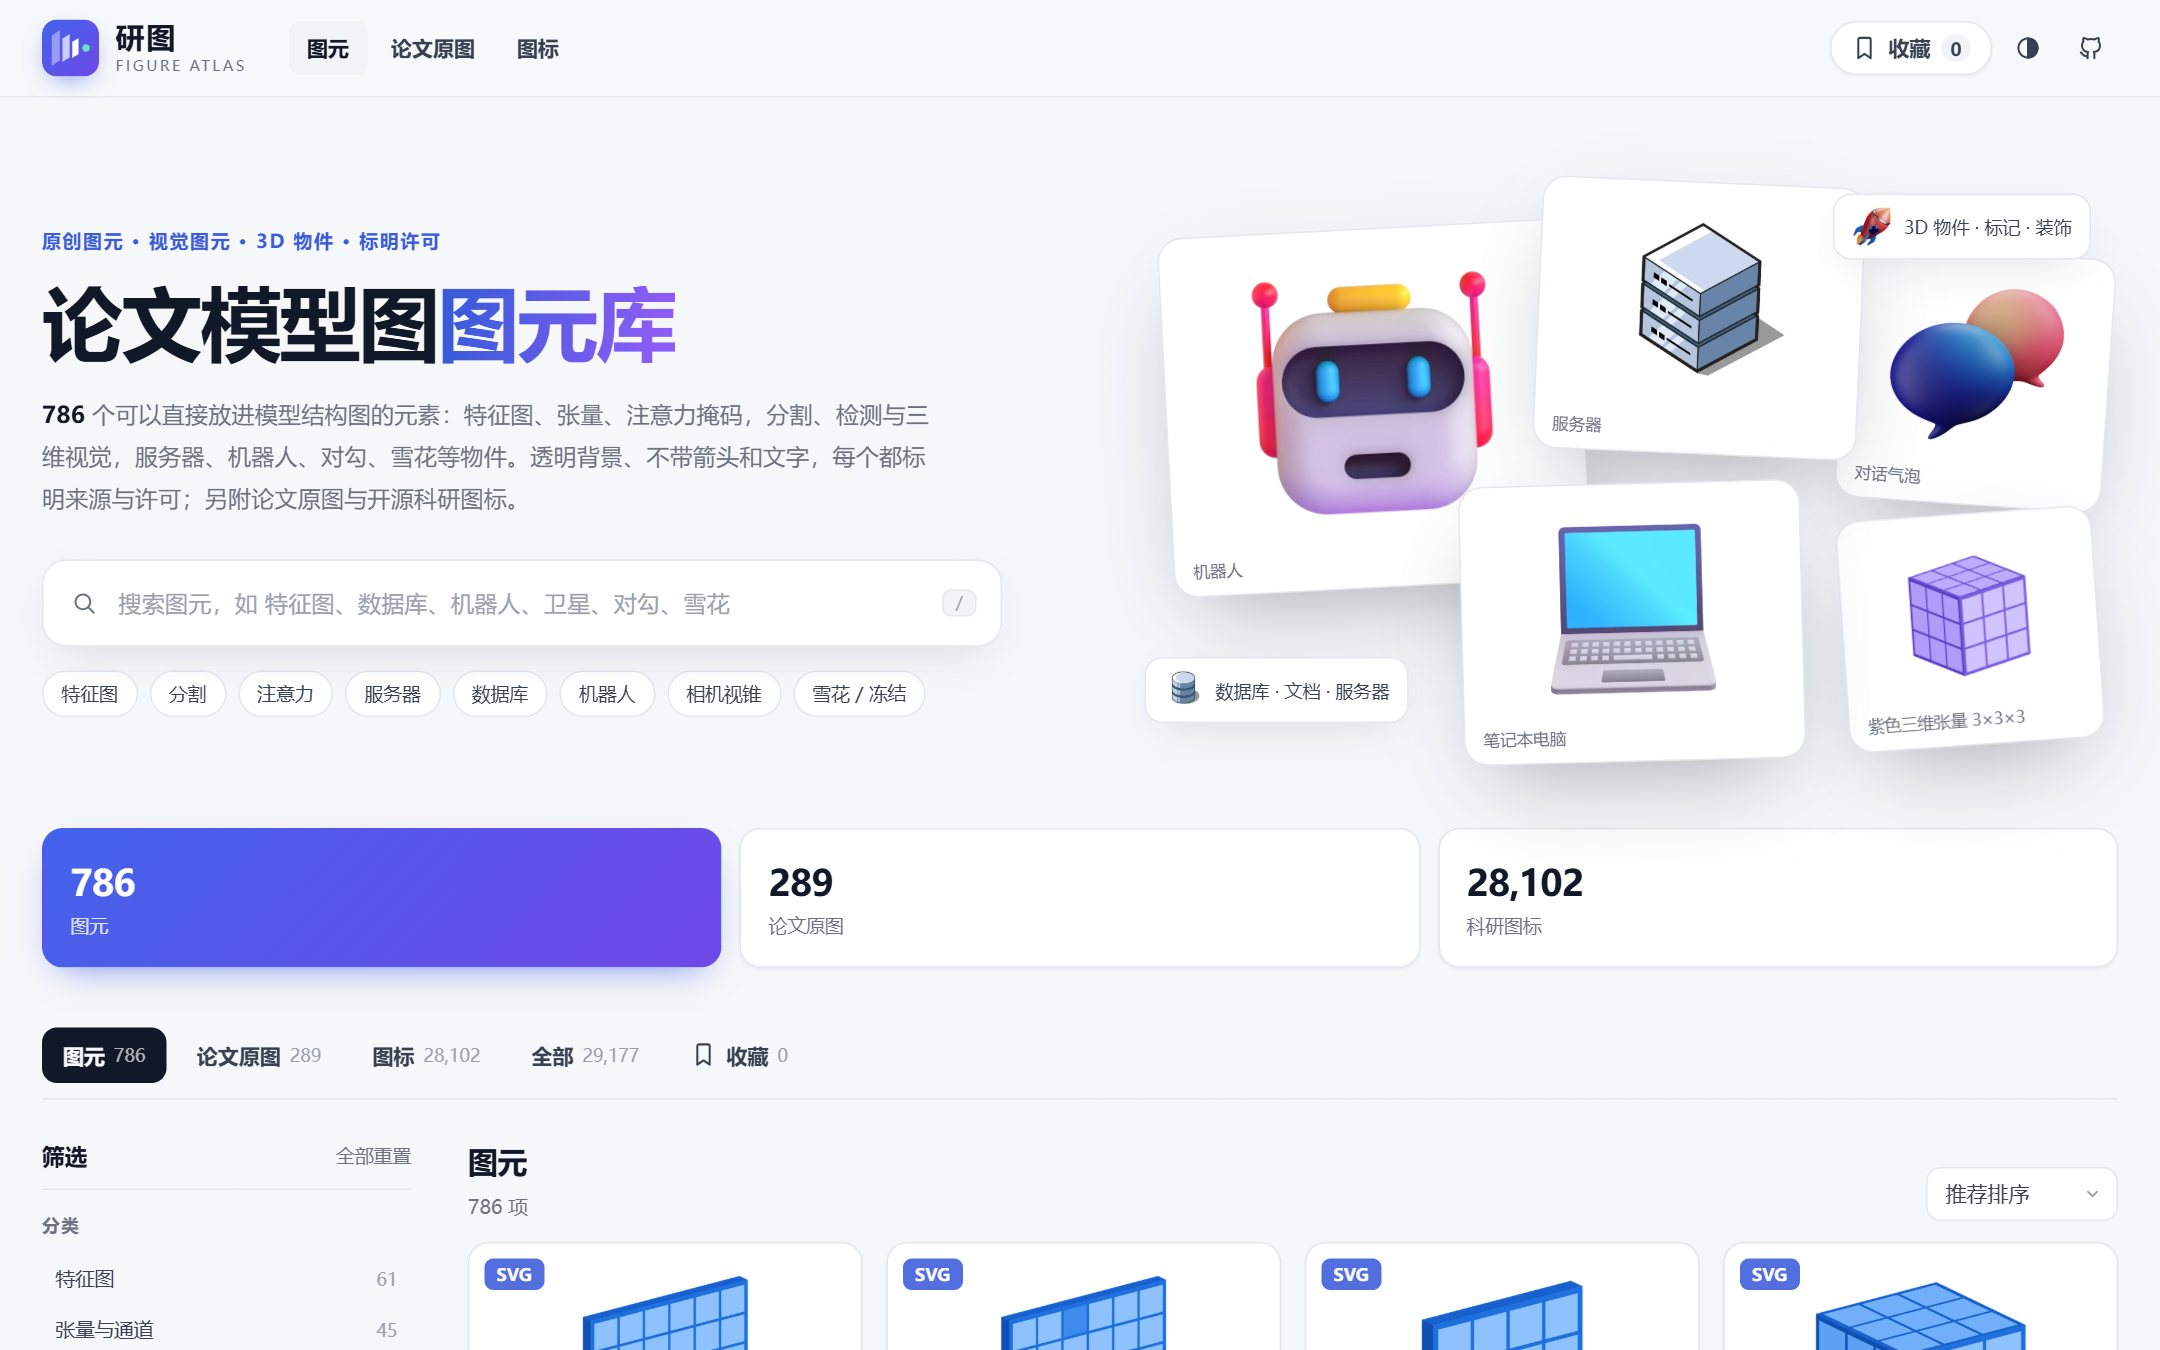
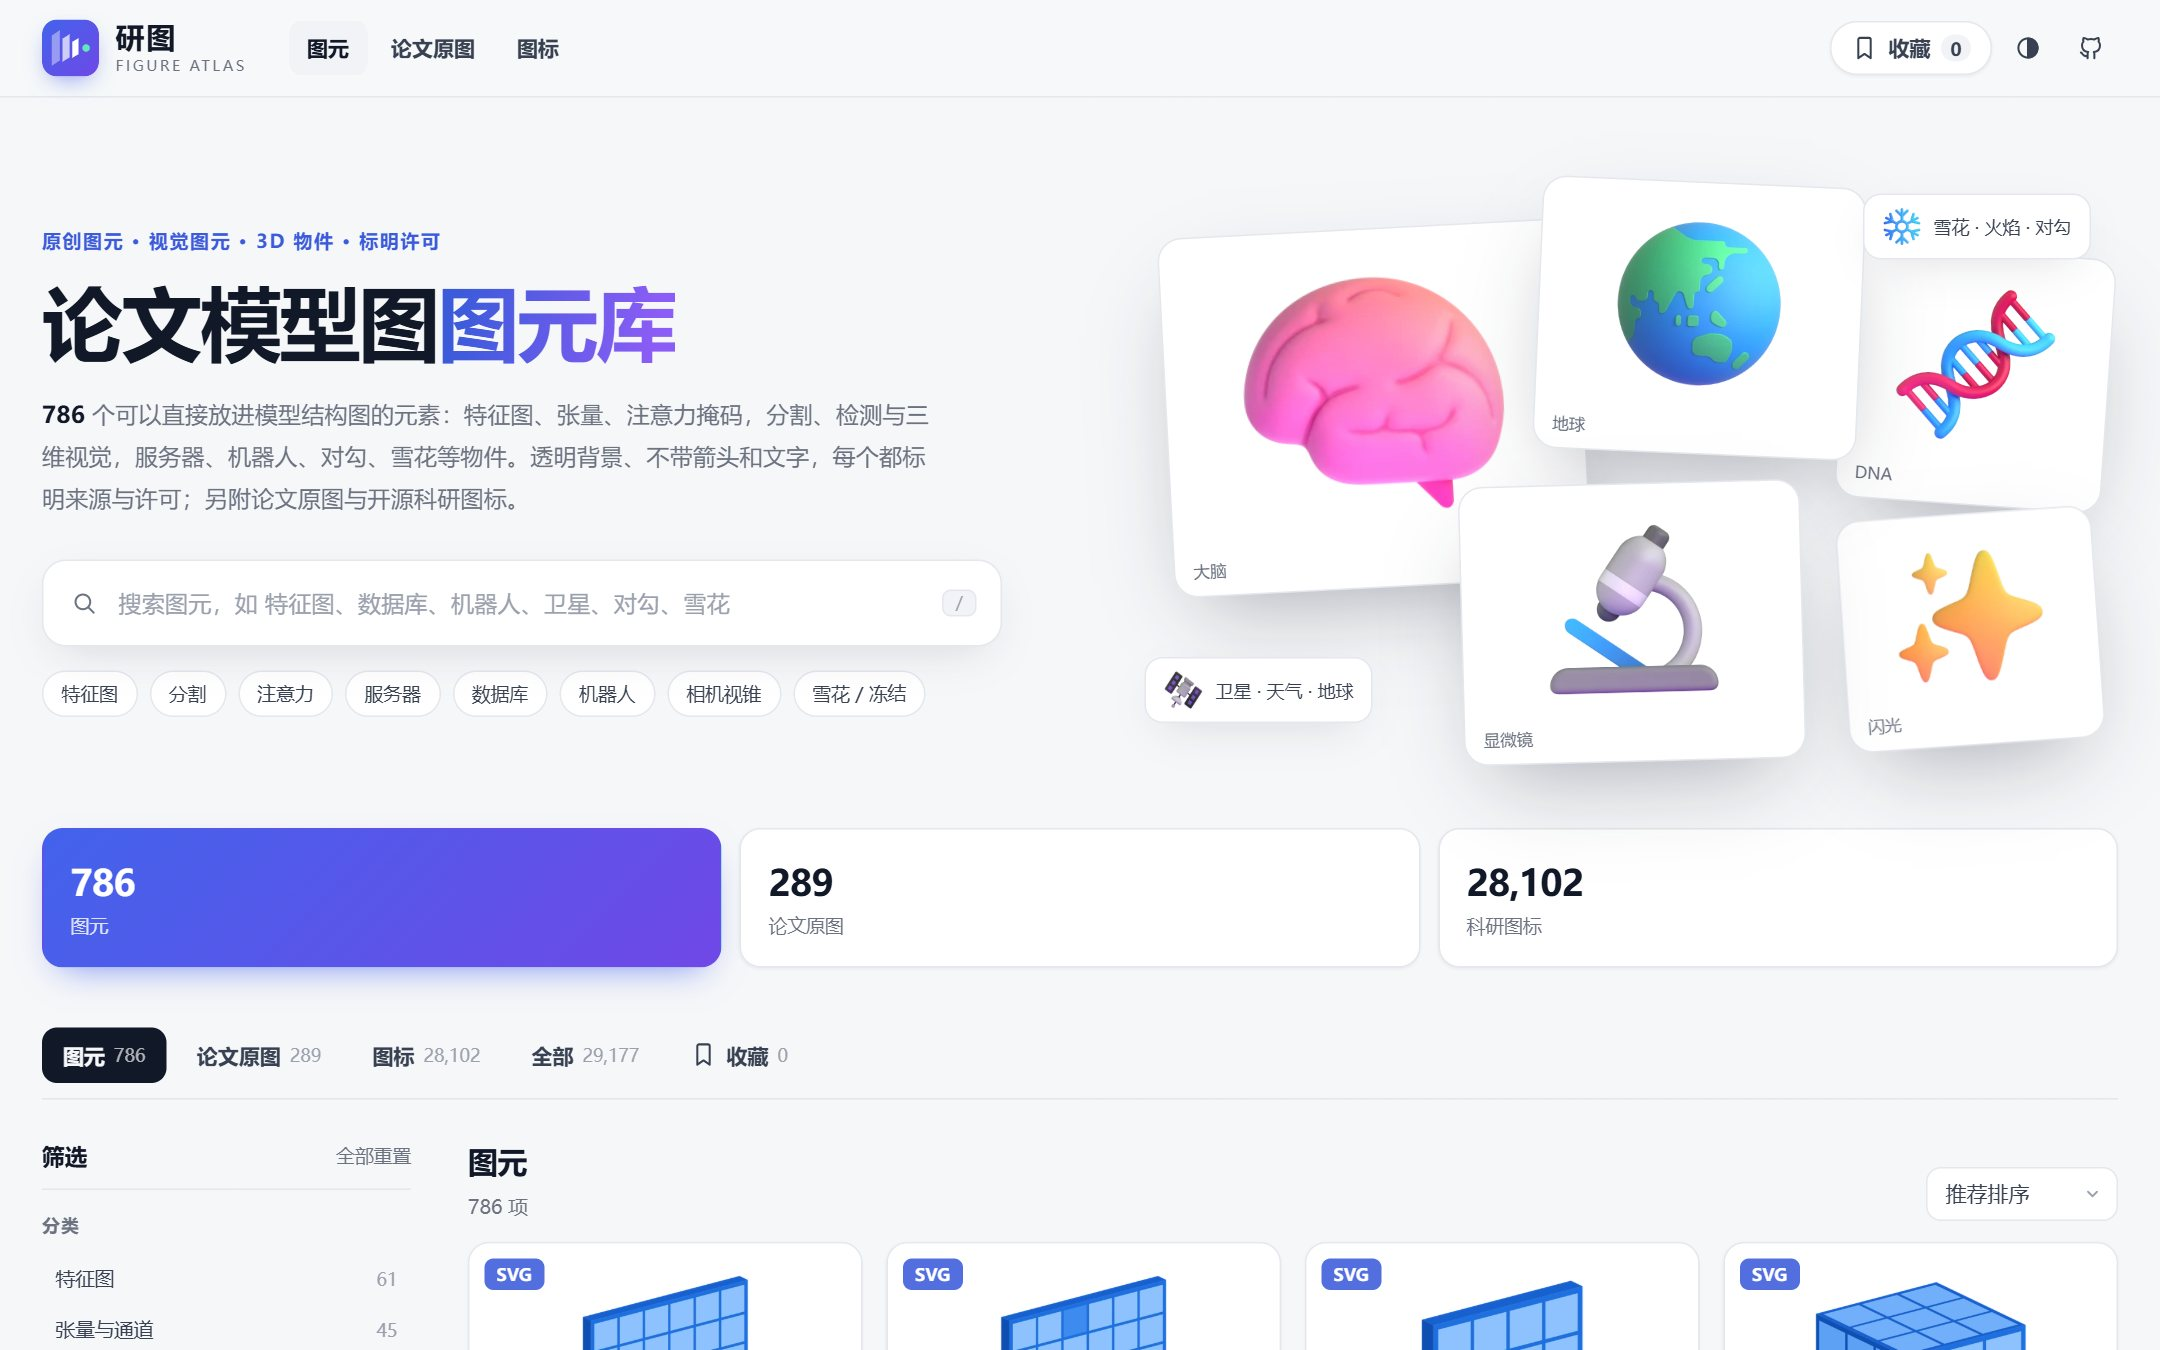
Pick a matching set of Fluent 3D objects for the hero
Brain, globe, DNA, microscope and sparkles, with satellite and snowflake
chips: one rendering style and a warm/cool palette that sit well
together. Captions are written by hand instead of reusing long names.

diff --git a/dist/app.js b/dist/app.js
@@ -154,16 +154,18 @@ function updateTabCounts() {
 }
 
 function heroArt() {
-  // Clean single objects read best at this size: a robot, a server, chat bubbles, a laptop and a tensor.
-  const tiles = ['f3d-robot', 'iso-server', '3di-chat-bubble-color', 'f3d-laptop', 'el-tensor-cube-purple'];
-  const chips = [['iso-database', 'c1', '数据库 · 文档 · 服务器'], ['3di-rocket-color', 'c2', '3D 物件 · 标记 · 装饰']];
-  const label = it => it.name.replace(/（[^）]*）$/, '');
-  $('heroArt').innerHTML = tiles.map(id => byId.get(id)).filter(Boolean)
-    .map((it, i) => `<button type="button" class="tile t${i + 1}" data-open="${esc(it.id)}"><img src="${esc(it.thumb)}" alt="${esc(it.name)}" decoding="async"><span>${esc(label(it))}</span></button>`)
-    .join('')
+  // Fluent 3D objects share one soft rendering style, so they sit well together in the collage.
+  const tiles = [['f3d-brain', '大脑'], ['f3d-globe-showing-asia-australia', '地球'], ['f3d-dna', 'DNA'],
+    ['f3d-microscope', '显微镜'], ['f3d-sparkles', '闪光']];
+  const chips = [['f3d-satellite', 'c1', '卫星 · 天气 · 地球'], ['f3d-snowflake', 'c2', '雪花 · 火焰 · 对勾']];
+  $('heroArt').innerHTML = tiles.filter(([id]) => byId.has(id))
+    .map(([id, label], i) => {
+      const it = byId.get(id);
+      return `<button type="button" class="tile t${i + 1}" data-open="${esc(id)}"><img src="${esc(it.thumb)}" alt="${esc(it.name)}" decoding="async"><span>${esc(label)}</span></button>`;
+    }).join('')
     + chips.map(([id, cls, text]) => {
       const it = byId.get(id);
-      return it ? `<button type="button" class="chip ${cls}" data-open="${esc(it.id)}"><img src="${esc(it.thumb)}" alt="">${esc(text)}</button>` : '';
+      return it ? `<button type="button" class="chip ${cls}" data-open="${esc(id)}"><img src="${esc(it.thumb)}" alt="">${esc(text)}</button>` : '';
     }).join('');
 }
 
